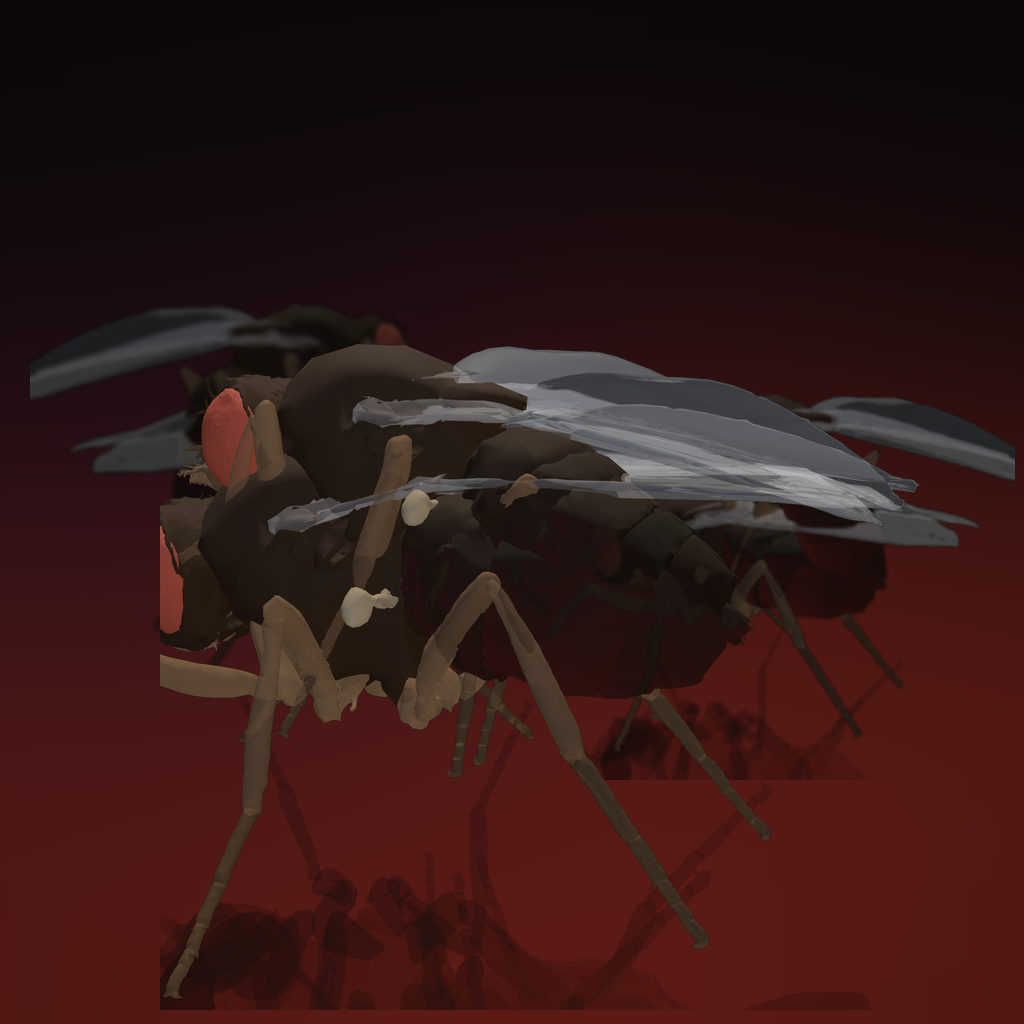
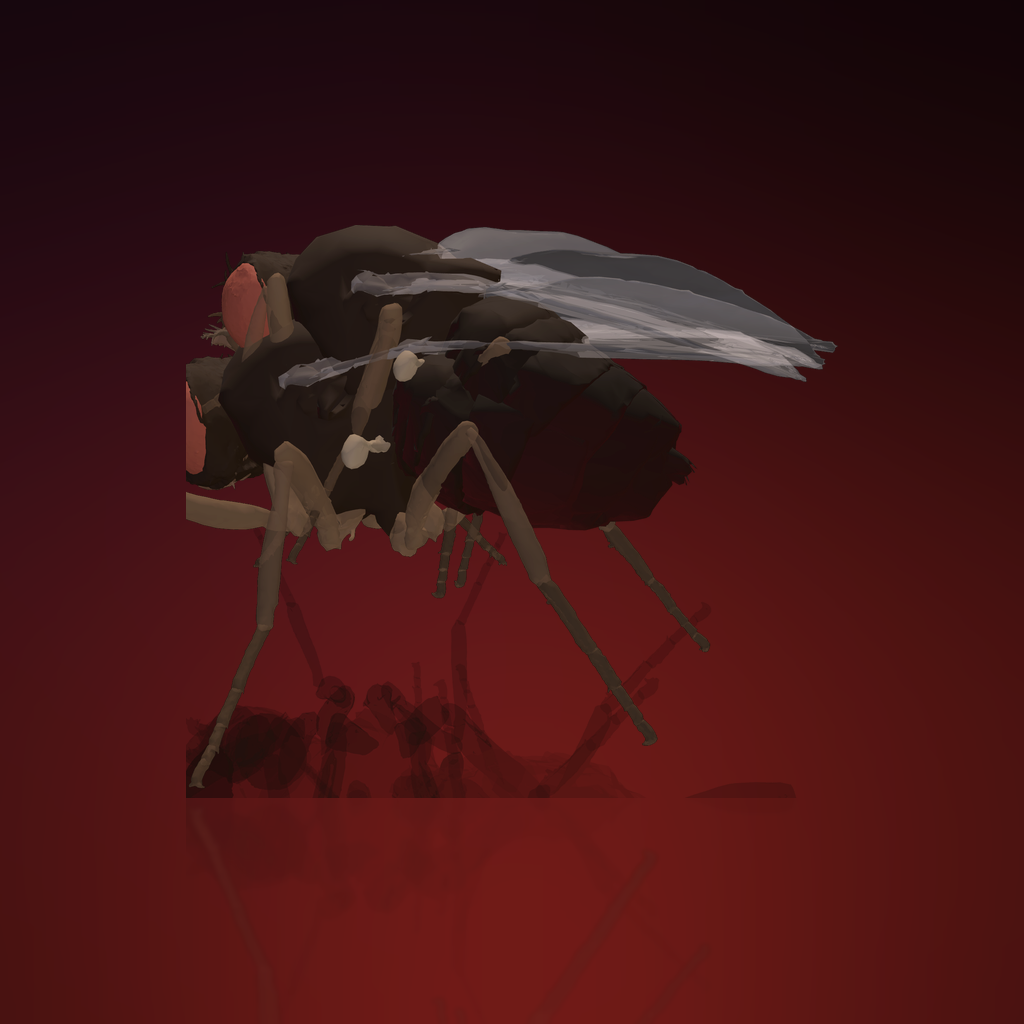
imagem de ticker (3 opcoes) e capa do X, dos renders do proprio modelo 3D
brand/gerar_ticker.py compoe tudo a partir de sexfly/brand/render (o casal montado em
quatro angulos, renderizado do modelo que esta no site). Nada de IA, nada baixado.

- ticker-A-casal, ticker-B-sala, ticker-C-neon, cada um em 1024/512/256/128
- x-capa 3000x1000 e 1500x500, com letreiro e multidao DENTRO da area que o X deixa
  visivel no celular (ele corta ~18% de cada lado), e o canto de baixo a esquerda livre
  para o avatar redondo
- x-avatar-1024

Aprendido na primeira leva: escalar o recorte so pela largura cortava asa e cabeca fora
do quadro. Agora o casal CABE numa caixa (largura e altura).

diff --git a/brand/gerar_ticker.py b/brand/gerar_ticker.py
@@ -1,0 +1,170 @@
+# Imagem de ticker e capa do X do FLY ORGY, a partir dos RENDERS DO PROPRIO MODELO 3D
+# (sexfly/brand/render: o casal montado, quatro angulos, 1600x1600 e 3000x1000, fundo preto).
+# Nada de IA e nada baixado - e a mesma mosca que esta no site, renderizada fora do navegador.
+#
+# Paleta nova, a do clube: oxblood, ouro e rosa. Tres opcoes de ticker porque ele escolhe uma:
+#   A  o casal      - um casal montado, grande, enquadrado apertado (le bem a 64 px)
+#   B  a sala       - varios casais em profundidade: parece orgia mesmo pequeno
+#   C  neon         - o casal recortado contra um anel de neon; o de maior contraste no tamanho minimo
+import os
+import numpy as np
+from PIL import Image, ImageDraw, ImageFilter, ImageFont
+
+R = r'C:\Higgsfield Games\sexfly\brand\render'
+BRAND = r'C:\Higgsfield Games\flyorgy\brand'
+SITE = r'C:\Higgsfield Games\flyorgy\site'
+PIX = r'C:\Higgsfield Games\sexfly\brand\fontes\PressStart2P-Regular.ttf'
+BAHN = 'C:/Windows/Fonts/bahnschrift.ttf'
+
+TINTA = (13, 4, 7)          # oxblood quase preto, o fundo do site
+BRASA = (224, 57, 44)
+ROSA = (255, 95, 158)
+OURO = (216, 166, 87)
+
+
+def fundo(W, H, focos, forca=0.55):
+    base = np.full((H, W, 3), TINTA, dtype=float)
+    g = Image.new('RGB', (W, H), (0, 0, 0))
+    d = ImageDraw.Draw(g)
+    for (x, y, r, cor) in focos:
+        d.ellipse((x - r, y - r * 0.78, x + r, y + r * 0.78), fill=cor)
+    g = np.asarray(g.filter(ImageFilter.GaussianBlur(max(10, min(W, H) // 4)))).astype(float)
+    return Image.fromarray(np.clip(base + g * forca, 0, 255).astype('uint8')).convert('RGBA')
+
+
+def recortar(caminho, limiar=10):
+    """O render vem em fundo preto: brilho vira alfa e corta a caixa do bicho."""
+    a = np.asarray(Image.open(caminho).convert('RGB')).astype(float)
+    alfa = np.clip(a.max(axis=2) / 26.0, 0, 1)
+    out = Image.fromarray(np.dstack([a, alfa * 255]).astype('uint8'), 'RGBA')
+    cx = out.getchannel('A').point(lambda v: 255 if v > limiar else 0).getbbox()
+    return out.crop(cx) if cx else out
+
+
+def tingir(im, cor, forca):
+    """Puxa a cor do bicho para a luz da sala, sem lavar o desenho."""
+    a = np.asarray(im).astype(float)
+    rgb, al = a[..., :3], a[..., 3:]
+    luz = rgb.mean(axis=2, keepdims=True) / 255.0
+    alvo = np.array(cor, dtype=float) * luz
+    rgb = rgb * (1 - forca) + alvo * forca
+    return Image.fromarray(np.clip(np.dstack([rgb, al]), 0, 255).astype('uint8'), 'RGBA')
+
+
+def colar(base, im, cx, baixo, larg, tom=1.0, desfoque=0.0, virar=False, reflexo=0.0, cor=None, forca=0.0, alt=None):
+    """Poe o casal CABENDO na caixa larg x alt (se alt vier), apoiado em 'baixo' e centrado em 'cx'.
+    Escalar so pela largura cortava a asa e a cabeca fora do quadro - foi o que aconteceu na 1a leva."""
+    o = im.copy()
+    if virar:
+        o = o.transpose(Image.FLIP_LEFT_RIGHT)
+    esc = larg / o.width if alt is None else min(larg / o.width, alt / o.height)
+    larg = max(1, int(o.width * esc))
+    h = max(1, int(o.height * esc))
+    o = o.resize((larg, h), Image.LANCZOS)
+    if cor is not None and forca:
+        o = tingir(o, cor, forca)
+    if tom != 1.0:
+        a = np.asarray(o).astype(float); a[..., :3] *= tom
+        o = Image.fromarray(np.clip(a, 0, 255).astype('uint8'), 'RGBA')
+    if desfoque > 0:
+        o = o.filter(ImageFilter.GaussianBlur(desfoque))
+    x0, y0 = int(cx - larg / 2), int(baixo - h)
+    if reflexo > 0:      # chao molhado
+        r = o.transpose(Image.FLIP_TOP_BOTTOM)
+        a = np.asarray(r).astype(float)
+        a[..., 3] *= reflexo * np.linspace(1.0, 0.0, a.shape[0])[:, None]
+        r = Image.fromarray(np.clip(a, 0, 255).astype('uint8'), 'RGBA').filter(ImageFilter.GaussianBlur(2.2))
+        base.alpha_composite(r, (x0, int(baixo)))
+    base.alpha_composite(o, (x0, y0))
+    return base
+
+
+def brilho(img, desenhar, raio=18, ganho=1.0):
+    """Camada aditiva borrada por cima (neon, halo de texto)."""
+    W, H = img.size
+    cam = Image.new('RGB', (W, H), (0, 0, 0))
+    desenhar(ImageDraw.Draw(cam))
+    cam = cam.filter(ImageFilter.GaussianBlur(raio))
+    a = np.asarray(img.convert('RGB')).astype(int) + (np.asarray(cam).astype(int) * ganho).astype(int)
+    return Image.fromarray(np.clip(a, 0, 255).astype('uint8')).convert('RGBA')
+
+
+def salvar(im, nome, tamanhos):
+    for t in tamanhos:
+        im.convert('RGB').resize((t, t) if im.width == im.height else
+                                 (t, int(im.height * t / im.width)), Image.LANCZOS
+                                 ).save(os.path.join(BRAND, f'{nome}-{t}.png'))
+    im.convert('RGB').save(os.path.join(BRAND, f'{nome}.png'))
+    print(' ', nome, '+', ', '.join(str(t) for t in tamanhos))
+
+
+casais = [recortar(os.path.join(R, f'perfil-{k}.png')) for k in 'abcd']
+
+# ---------------- A: o casal ----------------
+W = 1024
+a = fundo(W, W, [(W * 0.5, W * 0.66, W * 0.52, (190, 44, 30)),
+                 (W * 0.24, W * 0.34, W * 0.26, (86, 26, 62)),
+                 (W * 0.80, W * 0.30, W * 0.22, (40, 30, 96))], 0.6)
+colar(a, casais[0], W * 0.50, W * 0.80, int(W * 0.90), alt=int(W * 0.62), tom=1.08, reflexo=0.26,
+      cor=(255, 170, 150), forca=0.22)
+a = brilho(a, lambda d: d.ellipse((W * 0.08, W * 0.52, W * 0.92, W * 0.98), fill=(70, 12, 8)), 90, 0.9)
+salvar(a, 'ticker-A-casal', [512, 256, 128])
+
+# ---------------- B: a sala ----------------
+b = fundo(W, W, [(W * 0.5, W * 0.80, W * 0.58, (170, 40, 28)),
+                 (W * 0.18, W * 0.52, W * 0.24, (92, 22, 56)),
+                 (W * 0.86, W * 0.46, W * 0.22, (36, 26, 92))], 0.5)
+postos = [(0.17, 0.50, 0.26, 3, True), (0.83, 0.53, 0.28, 2, False),
+          (0.34, 0.66, 0.38, 1, False), (0.70, 0.72, 0.42, 0, True),
+          (0.50, 0.90, 0.54, 0, False)]
+for cx, baixo, larg, k, virar in postos:
+    z = larg / 0.54
+    colar(b, casais[k], W * cx, W * baixo, int(W * larg), alt=int(W * larg * 0.62),
+          tom=0.42 + 0.62 * z, desfoque=(1 - z) * 3.4, virar=virar, reflexo=0.18 * z,
+          cor=(255, 160, 140), forca=0.20)
+salvar(b, 'ticker-B-sala', [512, 256, 128])
+
+# ---------------- C: neon ----------------
+c = fundo(W, W, [(W * 0.5, W * 0.5, W * 0.30, (60, 14, 26))], 0.5)
+c = brilho(c, lambda d: d.ellipse((W * 0.14, W * 0.14, W * 0.86, W * 0.86), outline=(255, 60, 120), width=26), 26, 1.0)
+d = ImageDraw.Draw(c)
+d.ellipse((W * 0.14, W * 0.14, W * 0.86, W * 0.86), outline=(255, 220, 235, 235), width=7)
+colar(c, casais[2], W * 0.50, W * 0.70, int(W * 0.62), alt=int(W * 0.42), tom=1.14,
+      cor=(255, 150, 190), forca=0.30)
+c = brilho(c, lambda d2: d2.ellipse((W * 0.30, W * 0.34, W * 0.70, W * 0.72), fill=(60, 10, 26)), 60, 0.8)
+salvar(c, 'ticker-C-neon', [512, 256, 128])
+
+# ---------------- capa do X ----------------
+CW, CH = 3000, 1000
+capa = fundo(CW, CH, [(CW * 0.62, CH * 1.02, CW * 0.40, (190, 46, 30)),
+                      (CW * 0.20, CH * 0.86, CW * 0.20, (96, 24, 58)),
+                      (CW * 0.90, CH * 0.70, CW * 0.18, (38, 28, 96))], 0.5)
+rng = np.random.default_rng(4)
+fila = []
+for i in range(16):
+    z = (i + 0.5) / 16
+    # os grandes ficam da metade para a direita, para nao brigar com o letreiro; os pequenos e
+    # desfocados podem ir para qualquer lado. Chao em 0,84 da altura: ninguem corta na borda de baixo.
+    x = rng.uniform(0.50, 0.90) if z > 0.55 else rng.uniform(0.30, 1.00)
+    fila.append((z, x * CW, (0.52 + 0.32 * z) * CH,
+                 int(CW * (0.048 + 0.095 * z ** 1.6)), int(rng.integers(0, 4)), bool(rng.integers(0, 2))))
+for z, x, y, larg, k, virar in sorted(fila):
+    colar(capa, casais[k], x, y, larg, alt=int(larg * 0.62), tom=0.34 + 0.68 * z,
+          desfoque=(1 - z) * 3.6, virar=virar, reflexo=0.16 * z, cor=(255, 160, 140), forca=0.20)
+f1 = ImageFont.truetype(PIX, 120)
+capa = brilho(capa, lambda d2: d2.text((610, 250), 'FLY ORGY', font=f1, fill=BRASA), 36, 1.0)
+d = ImageDraw.Draw(capa)
+d.text((610, 250), 'FLY ORGY', font=f1, fill=(255, 246, 242))
+d.text((616, 442), 'thirty-two real fly brains. one back room.',
+       font=ImageFont.truetype(BAHN, 62), fill=(232, 214, 218))
+d.text((618, 538), 'flyorgy.com', font=ImageFont.truetype(BAHN, 52), fill=OURO)
+capa.convert('RGB').save(os.path.join(BRAND, 'x-capa-3000x1000.png'))
+capa.convert('RGB').resize((1500, 500), Image.LANCZOS).save(os.path.join(BRAND, 'x-capa-1500x500.png'))
+print('  x-capa 3000x1000 + 1500x500')
+
+# ---------------- avatar do X = o ticker A, sem sangrar nas bordas do circulo ----------------
+av = fundo(W, W, [(W * 0.5, W * 0.70, W * 0.50, (190, 44, 30)), (W * 0.26, W * 0.36, W * 0.24, (86, 26, 62))], 0.6)
+colar(av, casais[0], W * 0.50, W * 0.78, int(W * 0.84), alt=int(W * 0.56), tom=1.08, reflexo=0.22,
+      cor=(255, 170, 150), forca=0.22)
+av.convert('RGB').save(os.path.join(BRAND, 'x-avatar-1024.png'))
+print('  x-avatar-1024')
